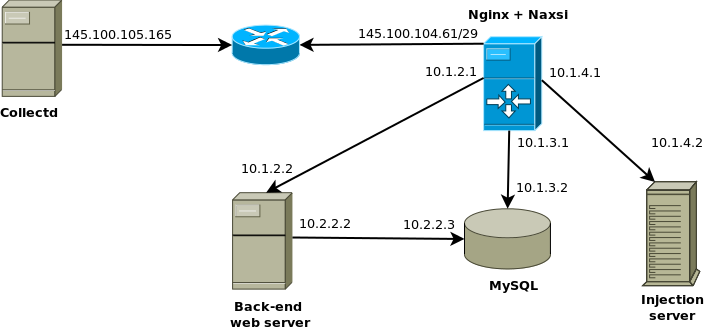
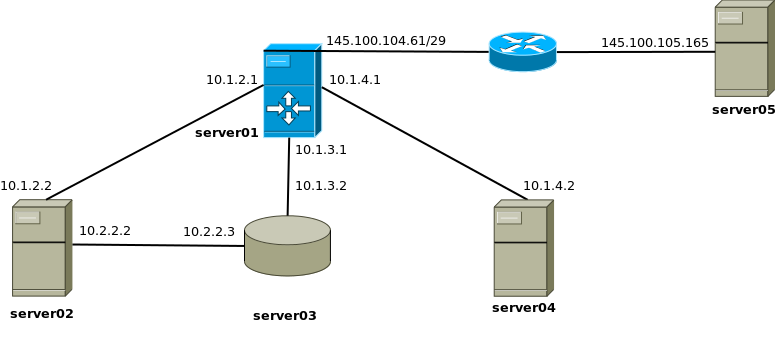
Worked on Methods, added Measurements and change Configuration

diff --git a/paper/configuration.tex b/paper/configuration.tex
@@ -1,64 +1,85 @@
 \documentclass[Configuration]{subfiles}
 \begin{document}
+\newpage
 \section{Experimental setup}
 \label{sec:Experimental setup}
 
 \subsection{Hardware}
 
-\subsubsection{server01}
 \begin{table}[h]
+\caption{server01}
 \centering
-\begin{tabular}{p{2cm} p{9cm} }
-\textbf{Brand} & Dell \\
-\textbf{Model} & PowerEdge R210 \\
-\textbf{CPU} & Intel(R) Xeon(R) CPU L3426 @ 1.87GHz (2x)\\
-\textbf{Memory} & 8 GB RAM, 1066 MHz (4x 2GB) \\
-\textbf{Disk} & 500 GB, SATA 3.0 Gbps (2x)\\
-\textbf{Interfaces} &  Integrated 10/100/1000 Mbps NIC (2x) \\
- & Broadcom NetXtreme II BCM5716 1000Base-T (C0) PCI Express Dual-port \\ 
-\textbf{OS} & Debian Squeeze 6.0.7 \\
+\begin{tabular}{|p{2cm}|p{9cm}|}
+\hline
+\textbf{Brand} & Dell \\ \hline
+\textbf{Model} & PowerEdge R210 \\ \hline
+\textbf{CPU} & Intel(R) Xeon(R) CPU L3426 @ 1.87GHz (2x)\\ \hline
+\textbf{Memory} & 8 GB RAM, 1066 MHz (4x 2GB) \\ \hline
+\textbf{Disk} & 500 GB, SATA 3.0 Gbps (2x)\\ \hline
+\textbf{Interfaces} &  Integrated 10/100/1000 Mbps NIC (2x) \\ \hline
+ & Broadcom NetXtreme II BCM5716 1000Base-T (C0) PCI Express Dual-port \\ \hline
+\textbf{OS} & Debian Squeeze 6.0.7 \\ \hline
 \end{tabular}
 \end{table}
 
-\subsubsection{server02}
 \begin{table}[h]
+\caption{server02}
 \centering
-\begin{tabular}{p{2cm} p{9cm} }
-\textbf{Brand} & SunMicro \\
-\textbf{Model} & X7DBT/X7DGT \\
-\textbf{CPU} & Intel(R) Xeon(R) CPU E5420 @ 2.50GHz (2x)\\
-\textbf{Memory} & 16 GB RAM, 1333 MHz (8x 2GB) \\
-\textbf{Disk} & 160 GB, SATA 3.0 Gbps (2x)\\
-\textbf{Interfaces} &   Intel(R) PRO/1000 Network (2x) \\
-\textbf{OS} & Debian Squeeze 6.0.7 \\
+\begin{tabular}{|p{2cm}|p{9cm}|}
+\hline
+\textbf{Brand} & SunMicro \\ \hline
+\textbf{Model} & X7DBT/X7DGT \\ \hline
+\textbf{CPU} & Intel(R) Xeon(R) CPU E5420 @ 2.50GHz (2x)\\ \hline
+\textbf{Memory} & 16 GB RAM, 1333 MHz (8x 2GB) \\ \hline
+\textbf{Disk} & 160 GB, SATA 3.0 Gbps (2x)\\ \hline
+\textbf{Interfaces} &   Intel(R) PRO/1000 Network (2x) \\ \hline
+\textbf{OS} & Debian Squeeze 6.0.7 \\ \hline
 \end{tabular}
 \end{table}
 
-\subsubsection{server03}
-\begin{table}[h!]
+\begin{table}[h]
+\caption{server03}
 \centering
-\begin{tabular}{p{2cm} p{9cm} }
-\textbf{Brand} & SunMicro \\
-\textbf{Model} & X7DBT/X7DGT \\
-\textbf{CPU} & Intel(R) Xeon(R) CPU E5420 @ 2.50GHz (2x)\\
-\textbf{Memory} & 16 GB RAM, 1333 MHz (8x 2GB) \\
-\textbf{Disk} & 160 GB, SATA 3.0 Gbps (2x)\\
-\textbf{Interfaces} &   Intel(R) PRO/1000 Network (2x) \\
-\textbf{OS} & Debian Squeeze 6.0.7 \\
+\begin{tabular}{|p{2cm}|p{9cm}|}
+\hline
+\textbf{Brand} & SunMicro \\ \hline
+\textbf{Model} & X7DBT/X7DGT \\ \hline
+\textbf{CPU} & Intel(R) Xeon(R) CPU E5420 @ 2.50GHz (2x)\\ \hline
+\textbf{Memory} & 16 GB RAM, 1333 MHz (8x 2GB) \\ \hline
+\textbf{Disk} & 160 GB, SATA 3.0 Gbps (2x)\\ \hline
+\textbf{Interfaces} &   Intel(R) PRO/1000 Network (2x) \\ \hline
+\textbf{OS} & Debian Squeeze 6.0.7 \\ \hline
 \end{tabular}
 \end{table}
 
-\subsubsection{server04}
 \begin{table}[h]
+\caption{server04}
 \centering
-\begin{tabular}{p{2cm} p{9cm} }
-\textbf{Brand} & SunMicro \\
-\textbf{Model} & X7DBT/X7DGT \\
-\textbf{CPU} & Intel(R) Xeon(R) CPU E5420 @ 2.50GHz (2x)\\
-\textbf{Memmory} & 16 GB RAM, 1333 MHz (8x 2GB) \\
-\textbf{Disk} & 160 GB, SATA 3.0 Gbps (2x)\\
-\textbf{Interfaces} &   Intel(R) PRO/1000 Network (2x) \\
-\textbf{OS} & Debian Squeeze 6.0.7 \\
+\begin{tabular}{|p{2cm}|p{9cm}|}
+\hline
+\textbf{Brand} & SunMicro \\ \hline
+\textbf{Model} & X7DBT/X7DGT \\ \hline
+\textbf{CPU} & Intel(R) Xeon(R) CPU E5420 @ 2.50GHz (2x)\\ \hline
+\textbf{Memmory} & 16 GB RAM, 1333 MHz (8x 2GB) \\ \hline
+\textbf{Disk} & 160 GB, SATA 3.0 Gbps (2x)\\ \hline
+\textbf{Interfaces} &   Intel(R) PRO/1000 Network (2x) \\ \hline
+\textbf{OS} & Debian Squeeze 6.0.7 \\ \hline
+\end{tabular}
+\end{table}
+
+\begin{table}[h]
+\caption{server05}
+\centering
+\begin{tabular}{|p{2cm}|p{9cm}|}
+\hline
+\textbf{Brand} & Dell \\ \hline
+\textbf{Model} & PowerEdge R210 \\ \hline
+\textbf{CPU} & Intel(R) Xeon(R) CPU L3426 @ 1.87GHz (2x)\\ \hline
+\textbf{Memory} & 8 GB RAM, 1066 MHz (4x 2GB) \\ \hline
+\textbf{Disk} & 500 GB, SATA 3.0 Gbps (2x)\\ \hline
+\textbf{Interfaces} &  Integrated 10/100/1000 Mbps NIC (2x) \\ \hline
+ & Broadcom NetXtreme II BCM5716 1000Base-T (C0) PCI Express Dual-port \\ \hline
+\textbf{OS} & Debian Squeeze 6.0.7 \\ \hline
 \end{tabular}
 \end{table}
 
@@ -240,18 +261,18 @@ http {
 }
 \end{lstlisting}
 
-\begin{lstlisting}[frame=single,caption=/etc/nginx/sites-enabled/with\_naxsi.test.nl,backgroundcolor=\color{gray},breaklines=true,numbers=left,]
-upstream with_naxsi.test.nl {
+\begin{lstlisting}[frame=single,caption=/etc/nginx/sites-enabled/wordpress,backgroundcolor=\color{gray},breaklines=true,numbers=left,]
+upstream backend {
   server 10.1.2.2;
 }
 
 server {
   listen                80;
 
-  server_name           with_naxsi.test.nl;
+  server_name           _;
 
   location / {
-    proxy_pass          http://with_naxsi.test.nl;
+    proxy_pass          http://backend;
     proxy_redirect      off;
     proxy_set_header    Host             $host;
     proxy_set_header    X-Real-IP        $remote_addr;
@@ -310,22 +331,42 @@ nameserver 145.100.96.22
 # chown -R www-data:www-data /srv/www/with_naxsi.test.nl
 \end{lstlisting}
 
-\begin{lstlisting}[frame=single,caption=/etc/nginx/sites-enabled/with\_naxsi.test.nl,backgroundcolor=\color{gray},breaklines=true,numbers=left,]
-server {
-    server_name with_naxsi.test.nl;
-    root /srv/www/with_naxsi.test.nl/wordpress;
-
-    location / {
-        index  index.php;
-    }
-
-    location ~ \.php$ {
-        include /etc/nginx/fastcgi_params;
-        fastcgi_pass unix:/var/run/php-fastcgi/php-fastcgi.socket;
-        fastcgi_index index.php;
-        fastcgi_param SCRIPT_FILENAME /srv/www/with_naxsi.test.nl/wordpress$fastcgi_script_name;
-    }
+\begin{lstlisting}[frame=single,caption=/etc/nginx/sites-enabled/with\_wordpress,backgroundcolor=\color{gray},breaklines=true,numbers=left,]
+upstream wordpress {
+  server 10.1.2.2;
 }
+
+server {
+  listen                80;
+
+  server_name           wp_without_naxsi.test.nl;
+
+  location / {
+    proxy_pass          http://wordpress;
+    proxy_redirect      off;
+    proxy_set_header    Host             $host;
+    proxy_set_header    X-Real-IP        $remote_addr;
+    proxy_set_header    X-Forwarded-For  $proxy_add_x_forwarded_for;
+  }
+}
+
+server {
+  listen                80;
+
+  server_name           wp_with_naxsi.test.nl;
+
+  location / {
+    proxy_pass          http://wordpress;
+    proxy_redirect      off;
+    proxy_set_header    Host             $host;
+    proxy_set_header    X-Real-IP        $remote_addr;
+    proxy_set_header    X-Forwarded-For  $proxy_add_x_forwarded_for;
+  }
+}
+\end{lstlisting}
+
+\begin{lstlisting}[frame=single,caption=/etc/nginx/sites-enabled/with\_wordpress,backgroundcolor=\color{gray},breaklines=true,numbers=left,]
+TODO
 \end{lstlisting}
 
 \begin{lstlisting}[frame=single,caption=/usr/bin/php-fastcgi (needs chmod +x /usr/bin/php-fastcgi),backgroundcolor=\color{gray},breaklines=true,numbers=left,]

diff --git a/paper/methods.tex b/paper/methods.tex
@@ -3,8 +3,38 @@
 \section{Methods}
 \label{sec:Methods}
 
+In order to find the overhead Naxsi has when it is actively used as a \ac{WAF}, it is important to create a baseline reference to compare the results to. First, the performance is measured when there is processing of any application data taken place. This is done by returning HTTP 200 OK message to the client. This way there is a minimal overhead and this makes it possible to isolate Naxsi as much as possible. Second, the performance is measure with a default Wordpress installation. In both cases, the performance is measured first with Naxsi being disabled and later with Naxsi enabled.
+
+Before both scenarios are discussed in more depth, it is important to understand how the basic configuration is setup. A configuration for standard web hosting that is seen quite often, is to separate the web hosting services on a functional basis. First, there is the web server, this the front-end from a client's perspective. Second, there is application layer. The application layer takes care of most of the processing power that is needed to process all the data. Third, there is the data layer, which is often a database server. It is not necessary to separate these layers over different servers. Depending on the requirements, it is possible to host all services on one server. In order to do a performance measurement on one of these services, it is important that not all services run on the same server. Therefore, in this setup, every layer has a dedicated server. In the next section the setup is discussed more in depth.
+
+\subsection{Experimental setup}
+
+Figure \ref{fig:Experimental setup} shows the setup that is used during the experiments. Table \ref{tab:Experimental infrastructure} gives a short description of each server and the service(s) that run(s) on it. Server01 is the front-end server, but it will also act as a software router for basic communication with the servers behind it. Server02 processes all the application data, which for a large part consists of the processing of PHP code. The hardware specification and the software that is used, can be found in appendix \ref{sec:Experimental setup}.
+
+\begin{figure}[h]
+\caption{Experimental setup}
+\centering
+\includegraphics[scale=0.4] {images/infrastructure.png}
+\label{fig:Experimental setup}
+\end{figure}
+
+\begin{table}[h]
+\caption{Experimental infrstructure}
+\begin{tabular}{|p{2,5cm}|p{3,5cm}|p{5cm}|}
+\hline
+\textbf{Hostname} & \textbf{Service} & \textbf{Short description} \\ \hline
+server01 & Nginx + Naxsi & Front-end server and router \\ \hline
+server02 & Nginx + Fastcgi & Application layer \\ \hline
+server03 & MySQL & Data layer \\ \hline
+server04 & Benchmark tools & Performance measurement \\ \hline
+server05 & Collectd & Performance data collector \\ \hline
+\end{tabular}
+\label{tab:Experimental infrastructure}
+\end{table}
+
 \subsection{Performance measurement tools}
 \begin{itemize}
+\item autobench
 \item httperf
 \item siege
 \item Apache Benchmark
@@ -20,26 +50,9 @@
 \item Network utilization (all servers)
 \end{itemize}
 
-\subsection{Experiment infrastructure}
-As there is no standard set of rules for performance testing web servers, the described definition aims at being, what in medicine is called, a gold standard test~\cite{wacholder1993validation}. This comprises that the test environment as close as possible mimics a real life situation. \\ 
-In order to The following things are vital to performance testing:
-
-\begin{figure}[h]
-\caption{Experimental setup}
-\centering
-\includegraphics[scale=0.4] {images/infrastructure.png}
-\label{fig:Experimental setup}
-\end{figure}
-
-\subsection{Expermimental setups}
-
 \subsubsection{Raw Naxsi performance test}
 
 \subsubsection{Naxsi performance test with back-end server}
 Based on the \ac{CMS} popularity measurements of March 1st by w3techs \footnote{\url{http://w3techs.com/technologies/overview/content_management/all}}, Wordpress is chosen as the web application. According to their survey, 17,4 \% of all web servers run Wordpress and it holds 54,6 \% of the CMS market share. Wordpress has, by far, the greatests market share and is therefore a popular target for cyber criminals.
-
-
-
-
 \end{document}
 

diff --git a/paper/measurements.tex b/paper/measurements.tex
@@ -1,27 +1,17 @@
+% autobench --single_host --host1 with_naxsi.test.nl --uri1 /index.php --low_rate 1 --high_rate 130  --rate_step 5 --const_test_time 30  --file results.csv
+
 \documentclass[Measurements]{subfiles}
 \begin{document}
 \section{Measurements}
 \label{sec:Measurements}
+Basically, there are two main different scenarios for measuring the performance. The first one is where no application processing takes place, but the request with directly be answered with a HTTP 200 OK message. This creates the lowest overhead for Nginx and makes it possible to isolate the Naxsi performance overhead. The second one is a more real-life scenario, in which a Wordpress is setup on a back-end server. The front-end Nginx server acts as a reverse-proxy and only forwards the request to the appropriate server.
 
-\subsection{Expermimental setup}
-Based on the \ac{CMS} popularity measurements of March 1st by w3techs \footnote{\url{http://w3techs.com/technologies/overview/content_management/all}}, Wordpress is chosen as the web application. According to their survey, 17,4 \% of all web servers run Wordpress and it holds 54,6 \% of the CMS market share. Wordpress has, by far, the greatests market share and is therefore a popular target for cyber criminals.
+\subsection{Experiment 1: Nginx without Naxsi}
 
-\subsection{Testing framework}
-As there is no standard set of rules for performance testing web servers, the described definition aims at being, what in medicine is called, a gold standard test~\cite{wacholder1993validation}. This comprises that the test environment as close as possible mimics a real life situation. \\ 
-In order to The following things are vital to performance testing:
+\subsection{Experiment 2: Nginx with Naxsi}
 
-\begin{description} 
- \item[server-side] text 
- \item[client-side] text
-\end{description}
+\subsection{Experiment 3: Nginx without Naxsi and Wordpress}
 
-\begin{figure}[h]
-\caption{Experimental setup}
-\centering
-\includegraphics[scale=0.4] {images/infrastructure.png}
-\label{fig:Experimental setup}
-\end{figure}
-
-
+\subsection{Experiment 4: Nginx with Naxsi and Wordpress}
 \end{document}
 

diff --git a/paper/results.tex b/paper/results.tex
@@ -3,6 +3,6 @@
 \section{Results}
 \label{sec:Results}
 
-% autobench --single_host --host1 with_naxsi.test.nl --uri1 /index.php --low_rate 1 --high_rate 130  --rate_step 5 --const_test_time 30  --file results.csv
+
 \end{document}
 

diff --git a/paper/paper.tex b/paper/paper.tex
@@ -31,6 +31,7 @@
 \subfile{introduction.tex}
 \subfile{naxsi.tex}
 \subfile{methods.tex}
+\subfile{measurements.tex}
 \subfile{results.tex}
 \subfile{conclusion.tex}
 

diff --git a/paper/acronyms.tex b/paper/acronyms.tex
@@ -1,3 +1,4 @@
+\newpage
 \section{Acronyms and abbreviations}
 \label{sec:Acronyms and abbreviations}
 \begin{acronym}
